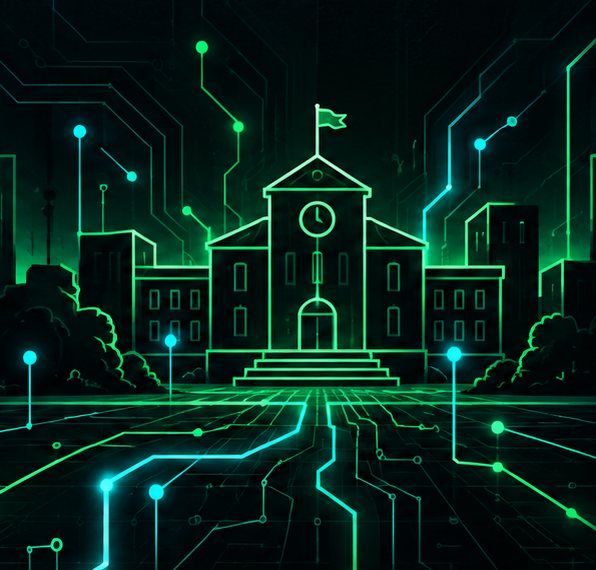
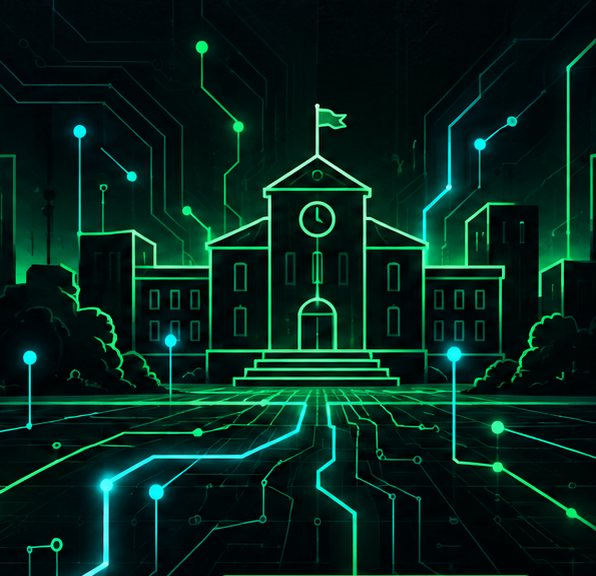
Careers: roles live at /roles/{slug}; every role gets its own card art
Founders' ask: role links read careers.devert.in/roles/{slug}, not a bare
slug at the domain root. app/[slug] moves to app/roles/[slug]; the listing,
banner, canonical / og:url / JobPosting url, sitemap, robots, the share-card
footer and the admin panels all build /roles/ URLs. Hosting rewrites
/roles/** to the always-built shell (so a role published after a deploy
still opens), and the seven role links that existed at the root 301 to
their /roles/ address - nothing already shared breaks. devert.in/careers/*
now redirects into /roles/ too.

The founders' generated cards for AI Engineer, Full-Stack Engineer, Content
Engineer, QA & Release Tester, Content Creator and Content Researcher join
DeVert Campus Leader in lib/role-art.mjs. Every card's baked-in link was
repainted to the new /roles/ address in JetBrains Mono at the original size
and colour, then each was saved as a ~125 KB 1200x630 JPEG with its art
cropped clear of all text.

diff --git a/devert-frontend/components/admin/careers-panel.jsx b/devert-frontend/components/admin/careers-panel.jsx
@@ -167,7 +167,7 @@ export function CareersPanel() {
       // silently merge over that posting, because the slug IS the doc ID. Refuse
       // instead - the fix is a different title, not a surprise overwrite.
       if (!editing && existing) {
-        setError(`A role already exists at careers.devert.in/${slug}. Edit it, or pick a different title.`);
+        setError(`A role already exists at careers.devert.in/roles/${slug}. Edit it, or pick a different title.`);
         setBusy("");
         return;
       }
@@ -292,7 +292,7 @@ export function CareersPanel() {
           { key: "title", label: "Role", render: (r) => (
             <div className="min-w-0 w-[260px] xl:w-[320px]">
               <p className="font-sans text-sm font-medium text-white truncate">{r.title || "(untitled)"}</p>
-              <p className="font-sans text-xs text-white/40 truncate">{r.team || "No team"} - careers.devert.in/{r.id}</p>
+              <p className="font-sans text-xs text-white/40 truncate">{r.team || "No team"} - careers.devert.in/roles/{r.id}</p>
             </div>
           ) },
           { key: "locationType", label: "Location", render: (r) => (
@@ -337,7 +337,7 @@ export function CareersPanel() {
 
       <Drawer open={editing !== null} onClose={closeDrawer}
         title={editing ? `Edit ${form.title || editing}` : "New role"}
-        subtitle={editing ? `careers.devert.in/${editing} - the slug is locked once created` : "Saved as a draft; publish it from the table."}
+        subtitle={editing ? `careers.devert.in/roles/${editing} - the slug is locked once created` : "Saved as a draft; publish it from the table."}
         footer={<>
           {editingRow && (
             <div className="mr-auto">
@@ -402,7 +402,7 @@ export function CareersPanel() {
           </div>
         </DrawerSection>
 
-        <DrawerSection title="Role page" hint="The body of careers.devert.in/{slug}. List fields take one item per line.">
+        <DrawerSection title="Role page" hint="The body of careers.devert.in/roles/{slug}. List fields take one item per line.">
           <Textarea label="DESCRIPTION" value={form.description} onChange={set("description")} rows={4}
             placeholder="The full prose intro shown at the top of the role page." />
           <Textarea label="RESPONSIBILITIES (one per line)" value={form.responsibilities} onChange={set("responsibilities")} rows={5} />

diff --git a/devert-careers/lib/careers-seo.js b/devert-careers/lib/careers-seo.js
@@ -115,7 +115,7 @@ function roleImage(slug, title) {
 }
 
 export function buildRoleMetadata(role, slug) {
-  const url = `${SITE}/${slug}`;
+  const url = `${SITE}/roles/${slug}`;
   const where = locationLabel(role);
   const title = where ? `${role.title} - ${where}` : role.title;
   const description = trimmedDescription(role);
@@ -184,7 +184,7 @@ function descriptionHtml(role) {
 // a role missing postedAt gets no JobPosting block at all rather than a guessed
 // date - an absent rich result beats an invalid one.
 export function roleJsonLd(role, slug) {
-  const url = `${SITE}/${slug}`;
+  const url = `${SITE}/roles/${slug}`;
   const datePosted = toIso(role.postedAt);
   const validThrough = toIso(role.validThrough);
 

diff --git a/devert-careers/components/role-list.jsx b/devert-careers/components/role-list.jsx
@@ -55,7 +55,7 @@ function RoleRow({ role }) {
   // cropped. Everything else gets the drawn strip.
   const card = ROLE_ART[role.id]?.card;
   return (
-    <Link href={`/${role.id}`}
+    <Link href={`/roles/${role.id}`}
       className="group flex flex-col overflow-hidden rounded-2xl border border-ink-200 bg-ink-100 transition-all hover:-translate-y-0.5 hover:border-brand-300 hover:shadow-[0_1px_3px_rgba(15,23,42,0.06),0_14px_32px_-14px_rgba(60,232,111,0.25)]">
       {card ? (
         // eslint-disable-next-line @next/next/no-img-element -- static export, no image optimizer

diff --git a/devert-careers/components/role-detail-view.jsx b/devert-careers/components/role-detail-view.jsx
@@ -57,7 +57,9 @@ export function RoleDetailView({ slug: builtSlug }) {
   // rewrites its URL to the no-open-roles shell, so the prop says
   // "no-open-roles" while the visitor asked for the real role.
   const pathname = usePathname();
-  const slug = (pathname || "").split("/").filter(Boolean)[0] || builtSlug;
+  // Roles live at /roles/{slug}; the segment after "roles" is the slug.
+  const parts = (pathname || "").split("/").filter(Boolean);
+  const slug = (parts[0] === "roles" ? parts[1] : null) || builtSlug;
 
   useEffect(() => {
     let alive = true;

diff --git a/devert-careers/components/role-banner.jsx b/devert-careers/components/role-banner.jsx
@@ -148,7 +148,7 @@ export function RoleBanner({ role, variant = "card" }) {
 
         <div className="mt-10 flex flex-wrap items-center justify-between gap-4 sm:mt-14">
           <span className="break-all font-mono text-[13px] font-medium text-[#00e5ff] sm:text-[15px]">
-            {SITE_HOST}/{role.id}
+            {SITE_HOST}/roles/{role.id}
           </span>
           <a href="#apply"
             className="inline-flex rounded-xl bg-brand-600 px-7 py-3 text-[15px] font-bold text-[#05080F] transition-colors hover:bg-brand-700">

diff --git a/devert-frontend/components/admin/job-applications-panel.jsx b/devert-frontend/components/admin/job-applications-panel.jsx
@@ -262,7 +262,7 @@ export function JobApplicationsPanel() {
                 <Field label="Role">
                   {open.jobId === GENERAL_INTEREST_JOB_ID
                     ? "General application - no specific role"
-                    : `${open.jobTitle || "(role deleted)"} - careers.devert.in/${open.jobId}`}
+                    : `${open.jobTitle || "(role deleted)"} - careers.devert.in/roles/${open.jobId}`}
                 </Field>
                 {open.engagement && (
                   <Field label="Applying as">

diff --git a/devert-careers/app/sitemap.ts b/devert-careers/app/sitemap.ts
@@ -30,7 +30,7 @@ export default async function sitemap() {
     // noindex placeholder when nothing is published, to keep output: 'export'
     // from failing the build, and that placeholder must never be advertised.
     ...roles.map((r: any) => ({
-      url: `https://careers.devert.in/${r.slug}`,
+      url: `https://careers.devert.in/roles/${r.slug}`,
       lastModified: new Date(),
       changeFrequency: "weekly",
       priority: 0.8,

diff --git a/devert-careers/app/robots.ts b/devert-careers/app/robots.ts
@@ -11,7 +11,7 @@ export default function robots() {
       // role is published (see lib/careers-seo.js's careerStaticParams). It is
       // already served with a noindex meta tag and is in no sitemap; this is
       // belt and braces so it is never even fetched.
-      disallow: ["/no-open-roles"],
+      disallow: ["/roles/no-open-roles"],
     },
     sitemap: "https://careers.devert.in/sitemap.xml",
   };

diff --git a/devert-careers/app/roles/[slug]/page.jsx b/devert-careers/app/roles/[slug]/page.jsx
@@ -1,4 +1,4 @@
-// A single role, at careers.devert.in/{slug}.
+// A single role, at careers.devert.in/roles/{slug}.
 //
 // Note the path shape: domain-root, NOT /careers/{slug}. This app IS careers,
 // so there is no "careers" segment any more - the same reshaping Campus went
